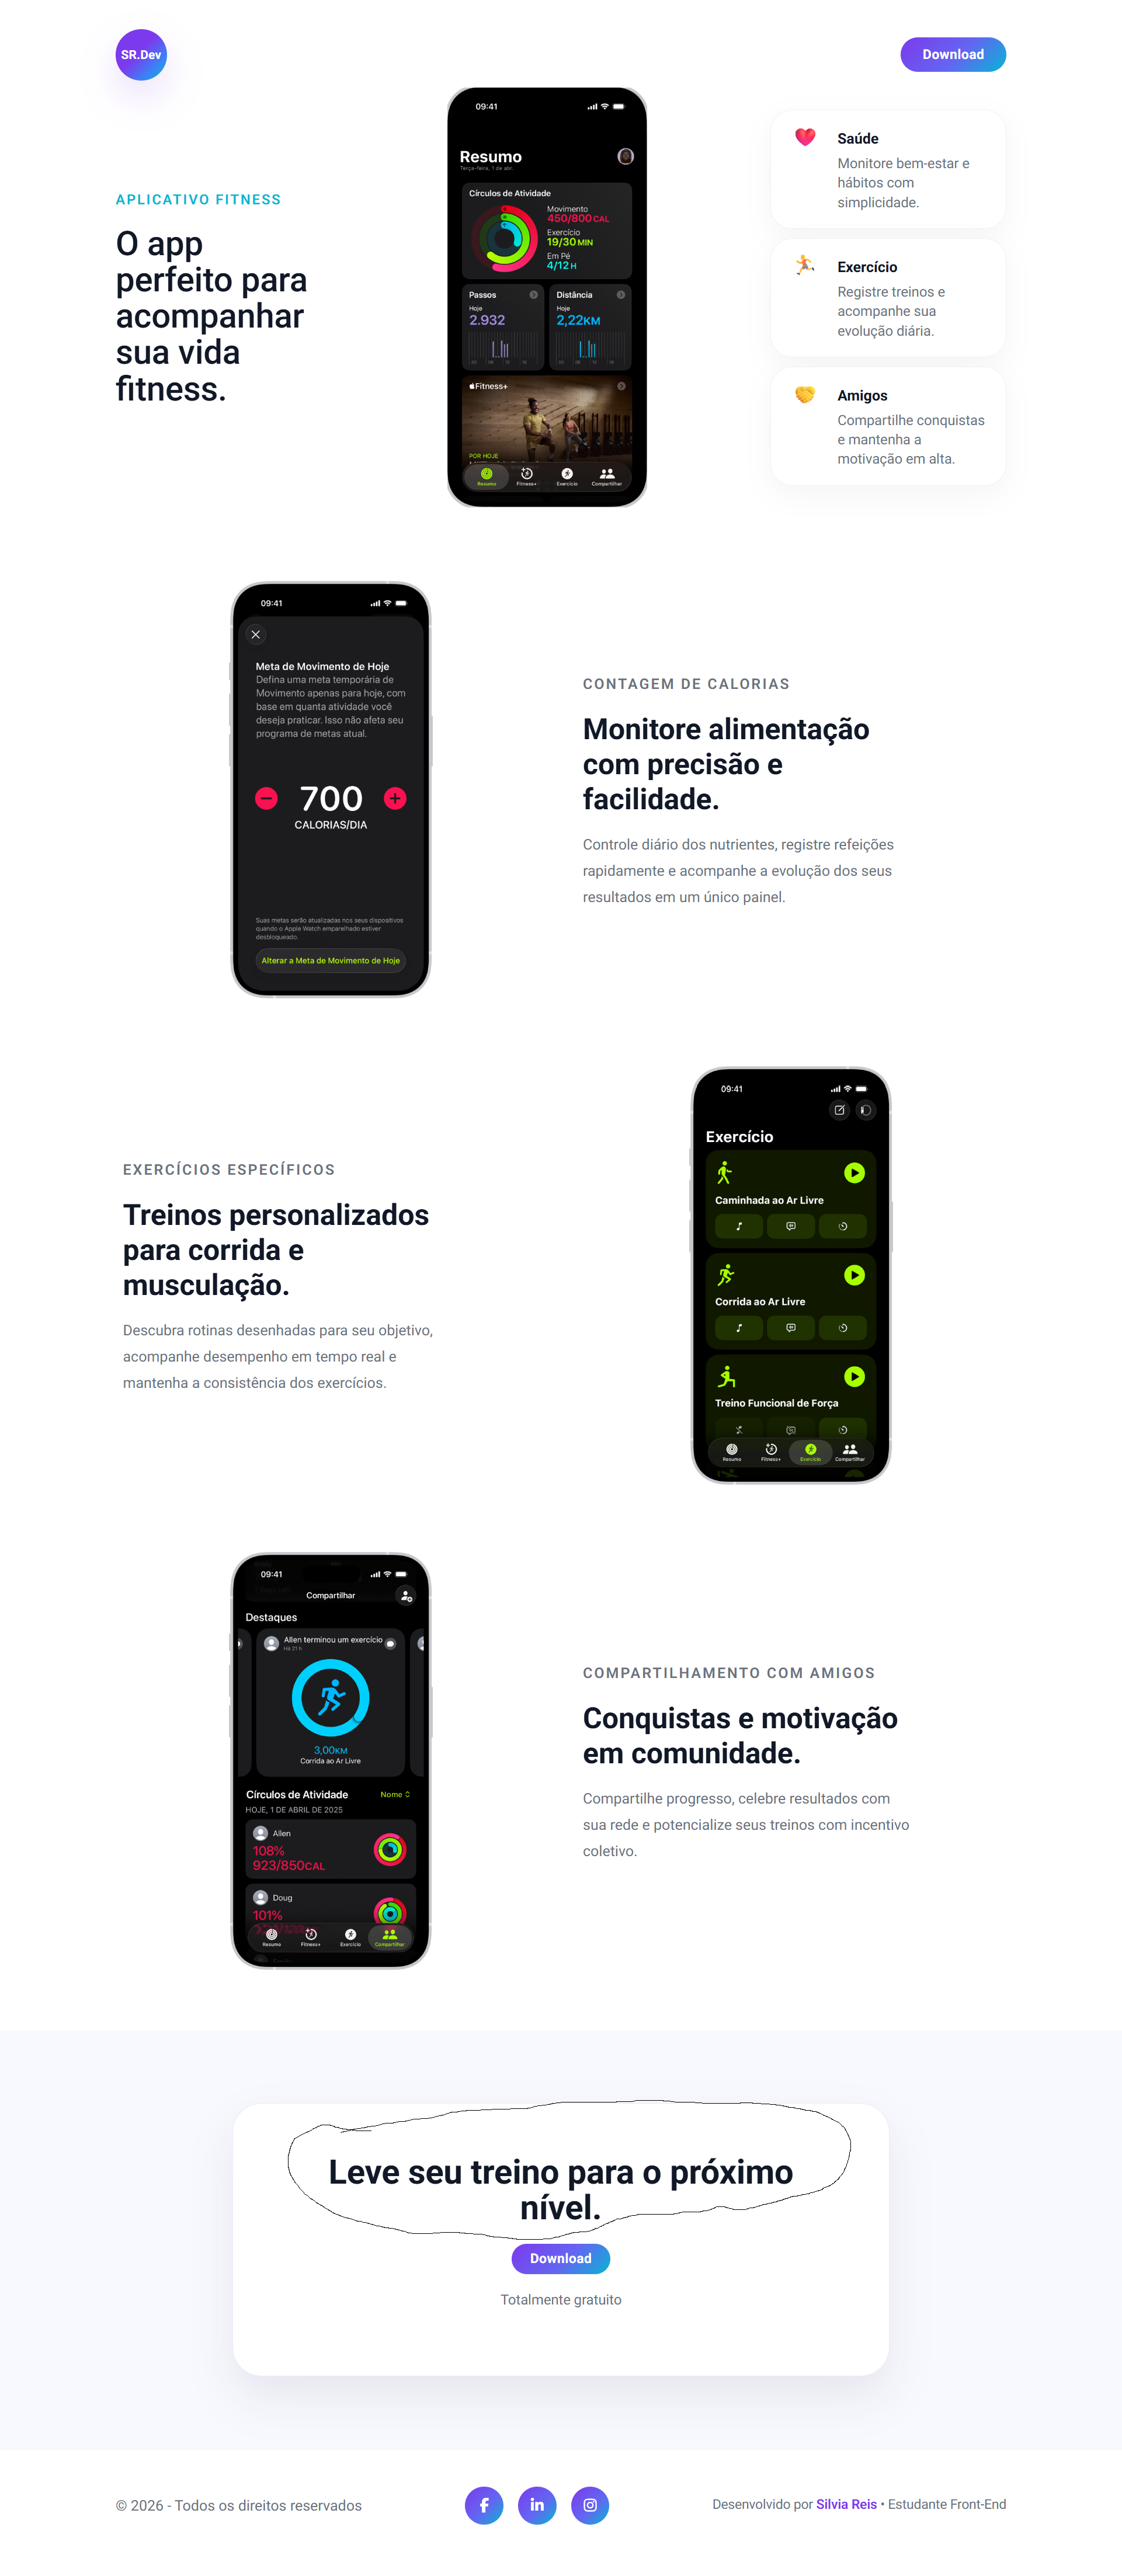
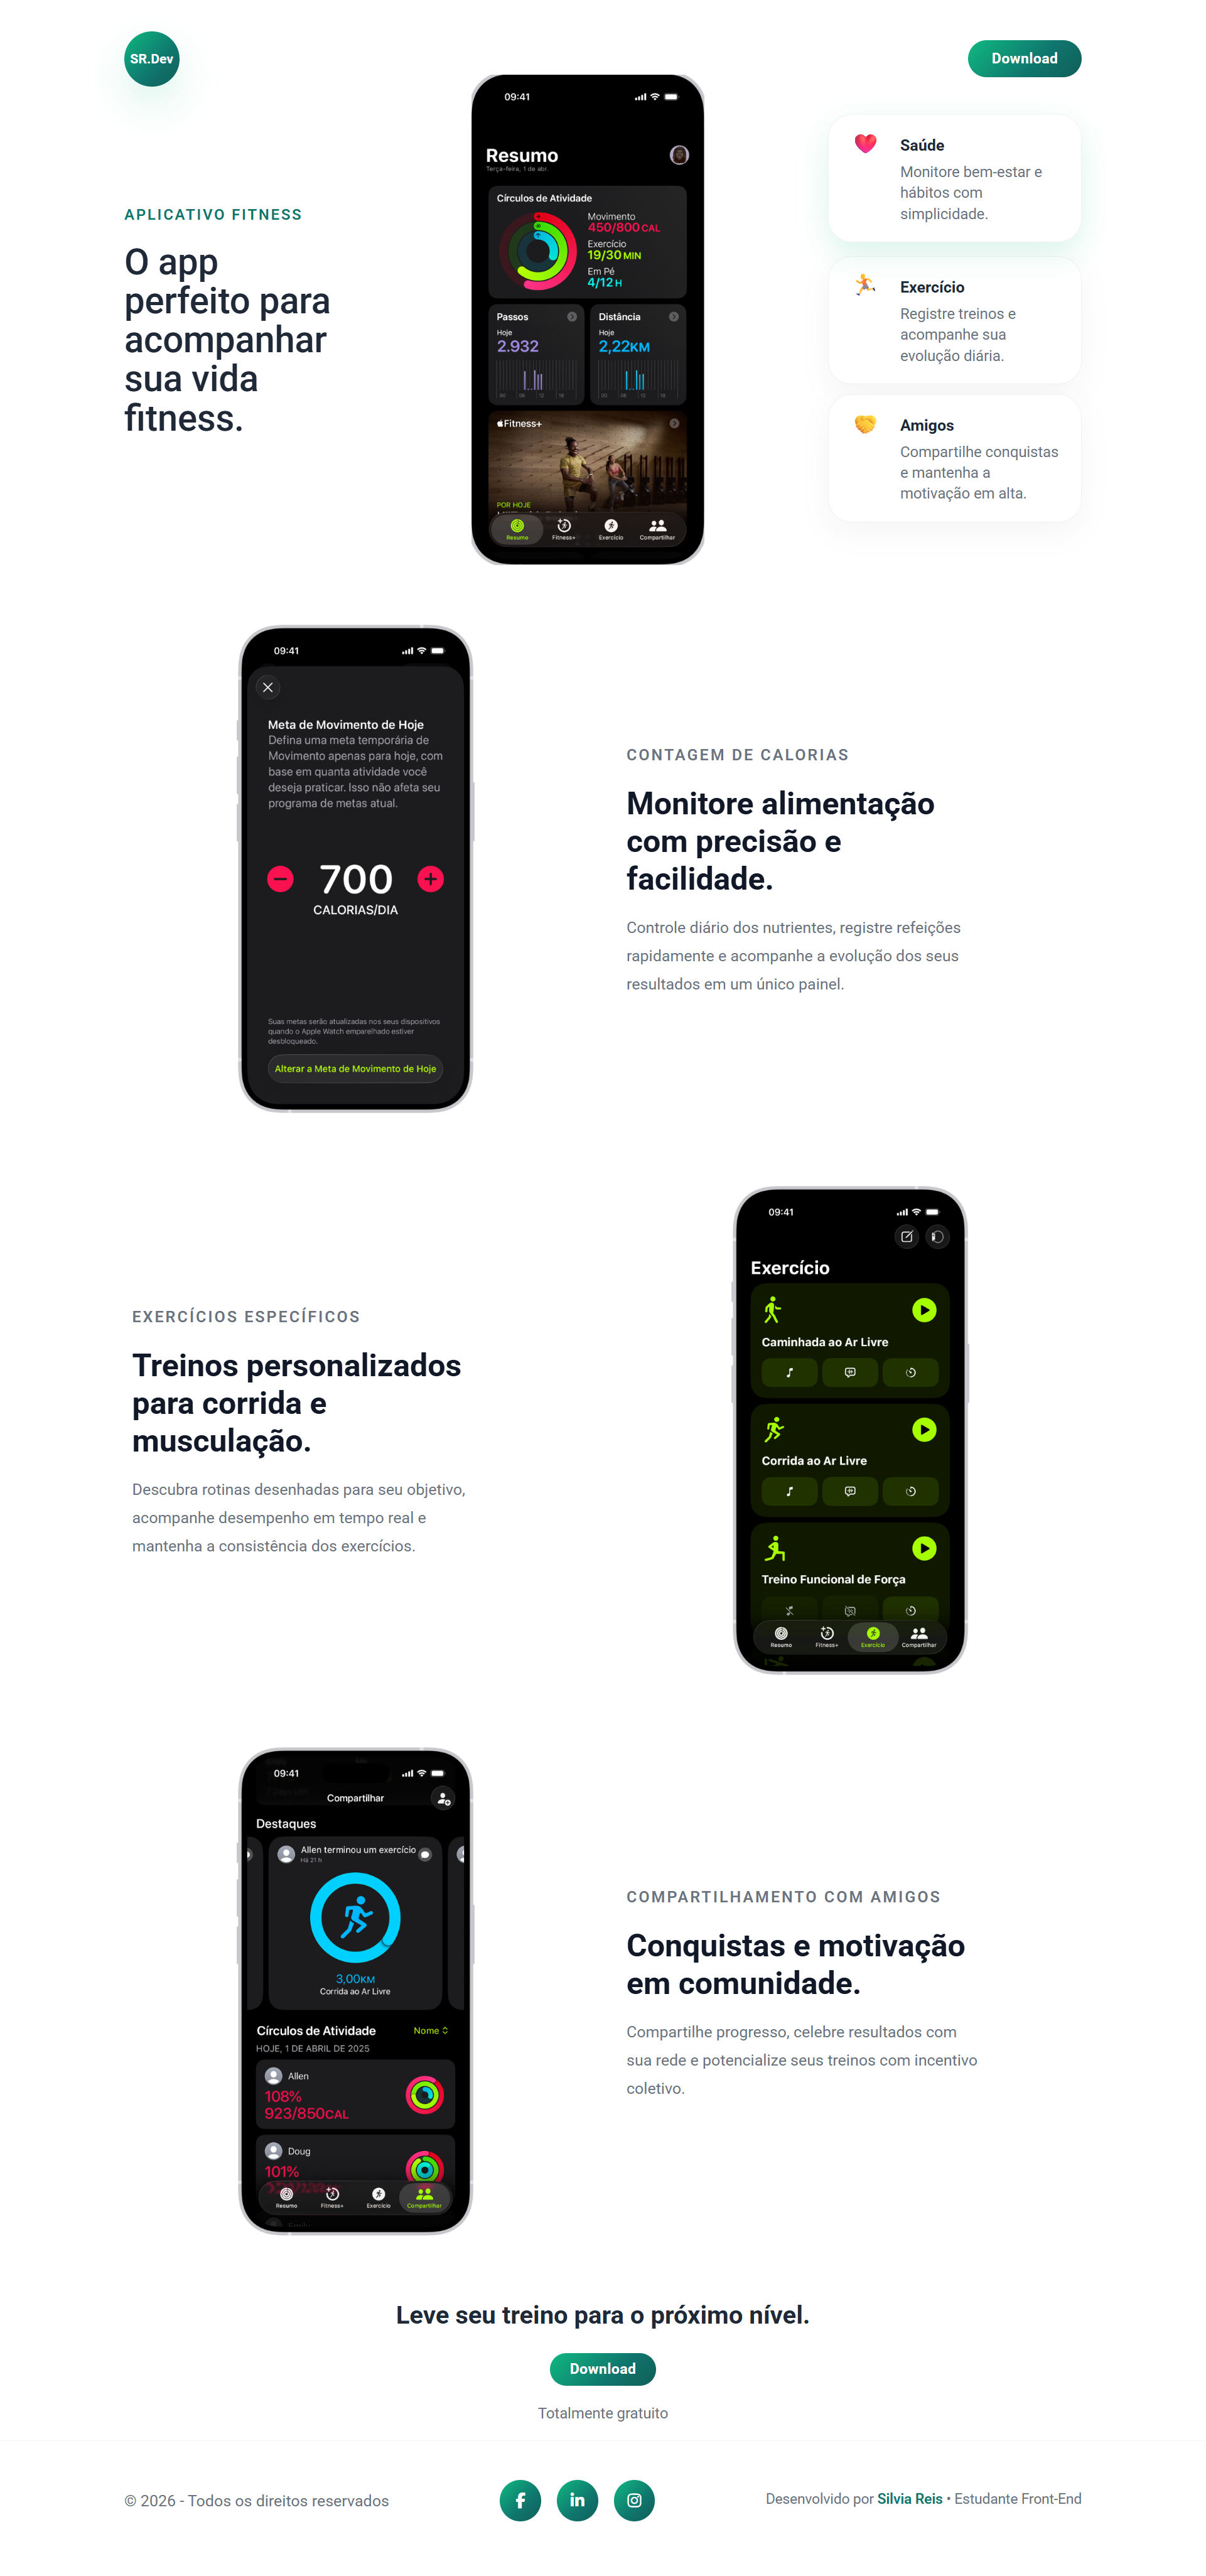
style(mobile): reduz altura e espaçamentos da CTA em telas pequenas

diff --git a/style.css b/style.css
@@ -173,11 +173,16 @@ a {
    justify-content: center;
 }
 
+.hero-image-wrapper,
+.feature-image {
+   max-width: 280px;
+   margin: 0 auto;
+}
+
 .hero-image-wrapper {
    position: relative;
    top: 0;
    padding: 0 !important;
-   max-width: 340px;
    background: transparent !important;
    border: none !important;
    box-shadow: none !important;
@@ -193,7 +198,7 @@ a {
    border: none;
    box-shadow: none;
    width: 100%;
-   max-height: 460px;
+   max-height: 500px;
    object-fit: contain;
 }
 
@@ -214,10 +219,6 @@ a {
 .benefit-card:hover {
    transform: translateY(-4px);
    box-shadow: 0 12px 30px rgba(16, 185, 129, 0.12);
-}
-
-.benefit-card:nth-child(1) {
-   border-left: 4px solid #10B981;
 }
 
 .benefit-card:nth-child(1):hover {
@@ -305,15 +306,7 @@ a {
    margin: 0 auto !important;
    border-radius: 0 !important;
    overflow: visible !important;
-   max-width: 340px;
-}
-
-.cta {
-   padding: 80px 0;
-   background: var(--surface);
-}
-
-.cta-panel {
+   max-width: 280px;
    max-width: 900px;
    margin: 0 auto;
    text-align: center;
@@ -322,6 +315,14 @@ a {
    border: 1px solid rgba(16, 185, 129, 0.12);
    background: #ffffff;
    box-shadow: 0 24px 48px rgba(15, 23, 42, 0.08);
+}
+
+.cta-panel {
+   display: flex;
+   flex-direction: column;
+   align-items: center;
+   justify-content: center;
+   text-align: center;
 }
 
 .cta-panel h2 {
@@ -353,12 +354,17 @@ a {
 .button-cta {
    width: fit-content;
    min-width: auto;
+   align-self: center;
+   margin: 0 auto;
 }
 
 .cta-note {
    margin-top: 16px;
    font-size: 0.95rem;
    color: var(--muted);
+   text-align: center;
+   margin-left: auto;
+   margin-right: auto;
 }
 
 .site-footer {
@@ -634,12 +640,14 @@ a {
       justify-content: center;
    }
 
-   .hero-image-wrapper {
+   .hero-image-wrapper,
+   .feature-image {
       max-width: 280px;
    }
 
-   .hero-image img {
-      max-height: 480px;
+   .hero-image img,
+   .feature-image img {
+      max-height: 450px;
    }
 
    .hero-benefits {
@@ -722,6 +730,41 @@ a {
    .footer-credit,
    .site-footer p {
       font-size: 0.85rem;
+   }
+}
+
+@media (max-width: 767px) {
+
+   .hero-image img,
+   .feature-image img {
+      max-height: 380px;
+   }
+
+   .feature,
+   .feature-reverse {
+      display: flex;
+      flex-direction: column;
+      align-items: center;
+      gap: 24px;
+   }
+
+   .feature-copy {
+      order: 1;
+      text-align: center;
+      max-width: 100%;
+   }
+
+   .feature-image {
+      order: 2;
+      margin: 0 auto;
+   }
+
+   .feature-copy h2 {
+      margin-bottom: 16px;
+   }
+
+   .feature-copy p {
+      margin-bottom: 0;
    }
 }
 
@@ -866,30 +909,38 @@ a {
    }
 
    .cta {
-      padding: 56px 0;
+      padding: 24px 0;
    }
 
    .cta-panel {
-      padding: 28px 16px;
+      padding: 18px 16px;
+      min-height: auto;
       border-radius: 24px;
    }
 
    .cta-panel h2 {
       white-space: nowrap;
-      font-size: clamp(0.95rem, 4.8vw, 1.25rem);
+      font-size: 1.25rem;
       line-height: 1.15;
-      margin-bottom: 18px;
+      margin: 0 0 8px;
    }
 
    .button-cta {
       padding: 8px 18px;
       font-size: 0.85rem;
+      margin: 0;
    }
 
    .cta-note,
    .footer-credit,
    .site-footer p {
       font-size: 0.78rem;
+   }
+
+   .cta-note {
+      margin-top: 6px;
+      margin-bottom: 0;
+      font-size: 0.85rem;
    }
 
    .footer-grid {
@@ -934,12 +985,14 @@ a {
       max-width: 420px;
    }
 
-   .hero-image-wrapper {
-      max-width: 360px;
+   .hero-image-wrapper,
+   .feature-image {
+      max-width: 280px;
    }
 
-   .hero-image img {
-      max-height: 620px;
+   .hero-image img,
+   .feature-image img {
+      max-height: 500px;
    }
 
    .hero-benefits {
@@ -981,12 +1034,14 @@ a {
       font-size: 1.05rem;
    }
 
-   .feature-image {
-      max-width: 340px;
+   .feature-image,
+   .hero-image-wrapper {
+      max-width: 280px;
    }
 
+   .hero-image img,
    .feature-image img {
-      max-height: 620px;
+      max-height: 500px;
    }
 
    .cta-panel {